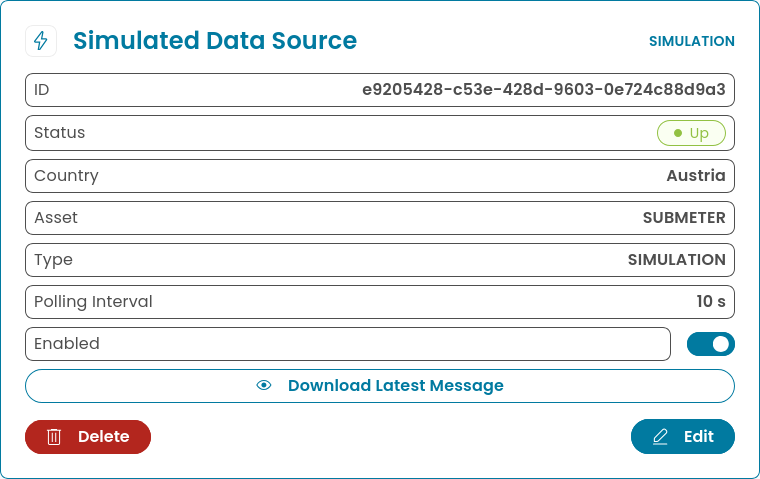
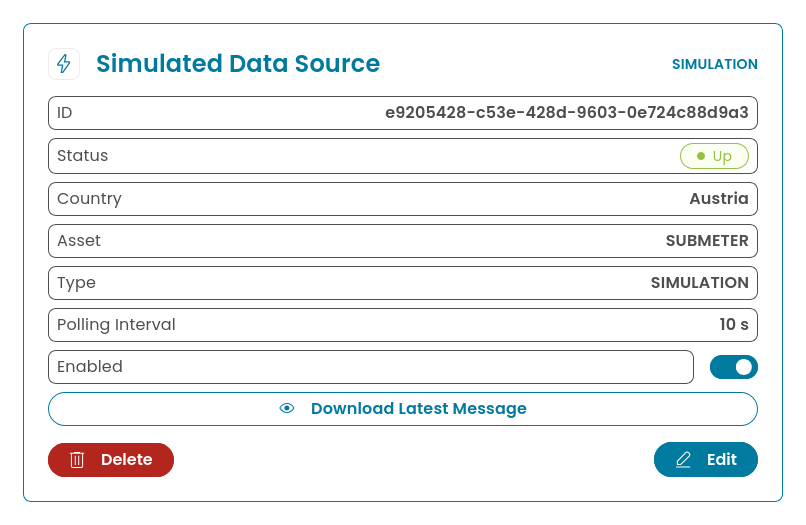
Day 14 tweaks and link

diff --git a/README.md b/README.md
@@ -67,16 +67,17 @@ Those branches represent the expected code state at the end of a day.
 
 Current published day guides:
 
-| Day                     | Topic                                                                     |
-|-------------------------|---------------------------------------------------------------------------|
-| [Day 1](days/day-01.md) | First contact with EDDIE, simulation connector, first REST flow           |
-| [Day 2](days/day-02.md) | Real region connectors and onboarding expectations                        |
-| [Day 3](days/day-03.md) | Outbound connector strategy: REST, Kafka, and AMQP                        |
-| [Day 4](days/day-04.md) | Permission lifecycle, revocation, termination, and tracing                |
-| [Day 5](days/day-05.md) | Application skeleton with Spring, Angular, Keycloak, and the EDDIE button |
-| [Day 6](days/day-06.md) | Map permissions to users                                                  |
-| [Day 7](days/day-07.md) | Process raw data to store meter readings per user                         |
-| [Day 9](days/day-09.md) | Integrate OpenTelemetry for observability into EDDIE                      |
+| Day                      | Topic                                                                     |
+|--------------------------|---------------------------------------------------------------------------|
+| [Day 1](days/day-01.md)  | First contact with EDDIE, simulation connector, first REST flow           |
+| [Day 2](days/day-02.md)  | Real region connectors and onboarding expectations                        |
+| [Day 3](days/day-03.md)  | Outbound connector strategy: REST, Kafka, and AMQP                        |
+| [Day 4](days/day-04.md)  | Permission lifecycle, revocation, termination, and tracing                |
+| [Day 5](days/day-05.md)  | Application skeleton with Spring, Angular, Keycloak, and the EDDIE button |
+| [Day 6](days/day-06.md)  | Map permissions to users                                                  |
+| [Day 7](days/day-07.md)  | Process raw data to store meter readings per user                         |
+| [Day 9](days/day-09.md)  | Integrate OpenTelemetry for observability into EDDIE                      |
+| [Day 14](days/day-14.md) | Set up AIIDA and use it to connect near real-time data                    |
 
 The broader learning path follows four phases:
 

diff --git a/days/day-14.md b/days/day-14.md
@@ -80,7 +80,7 @@ For this tutorial, we will simply add a new user in the `aiida/db.sql` file that
 CREATE USER emqx WITH ENCRYPTED PASSWORD 'aiida';
 ```
 
-## MQTT Broker
+### MQTT Broker
 
 ```yaml [aiida/docker-compose.yml]
   aiida-emqx:
